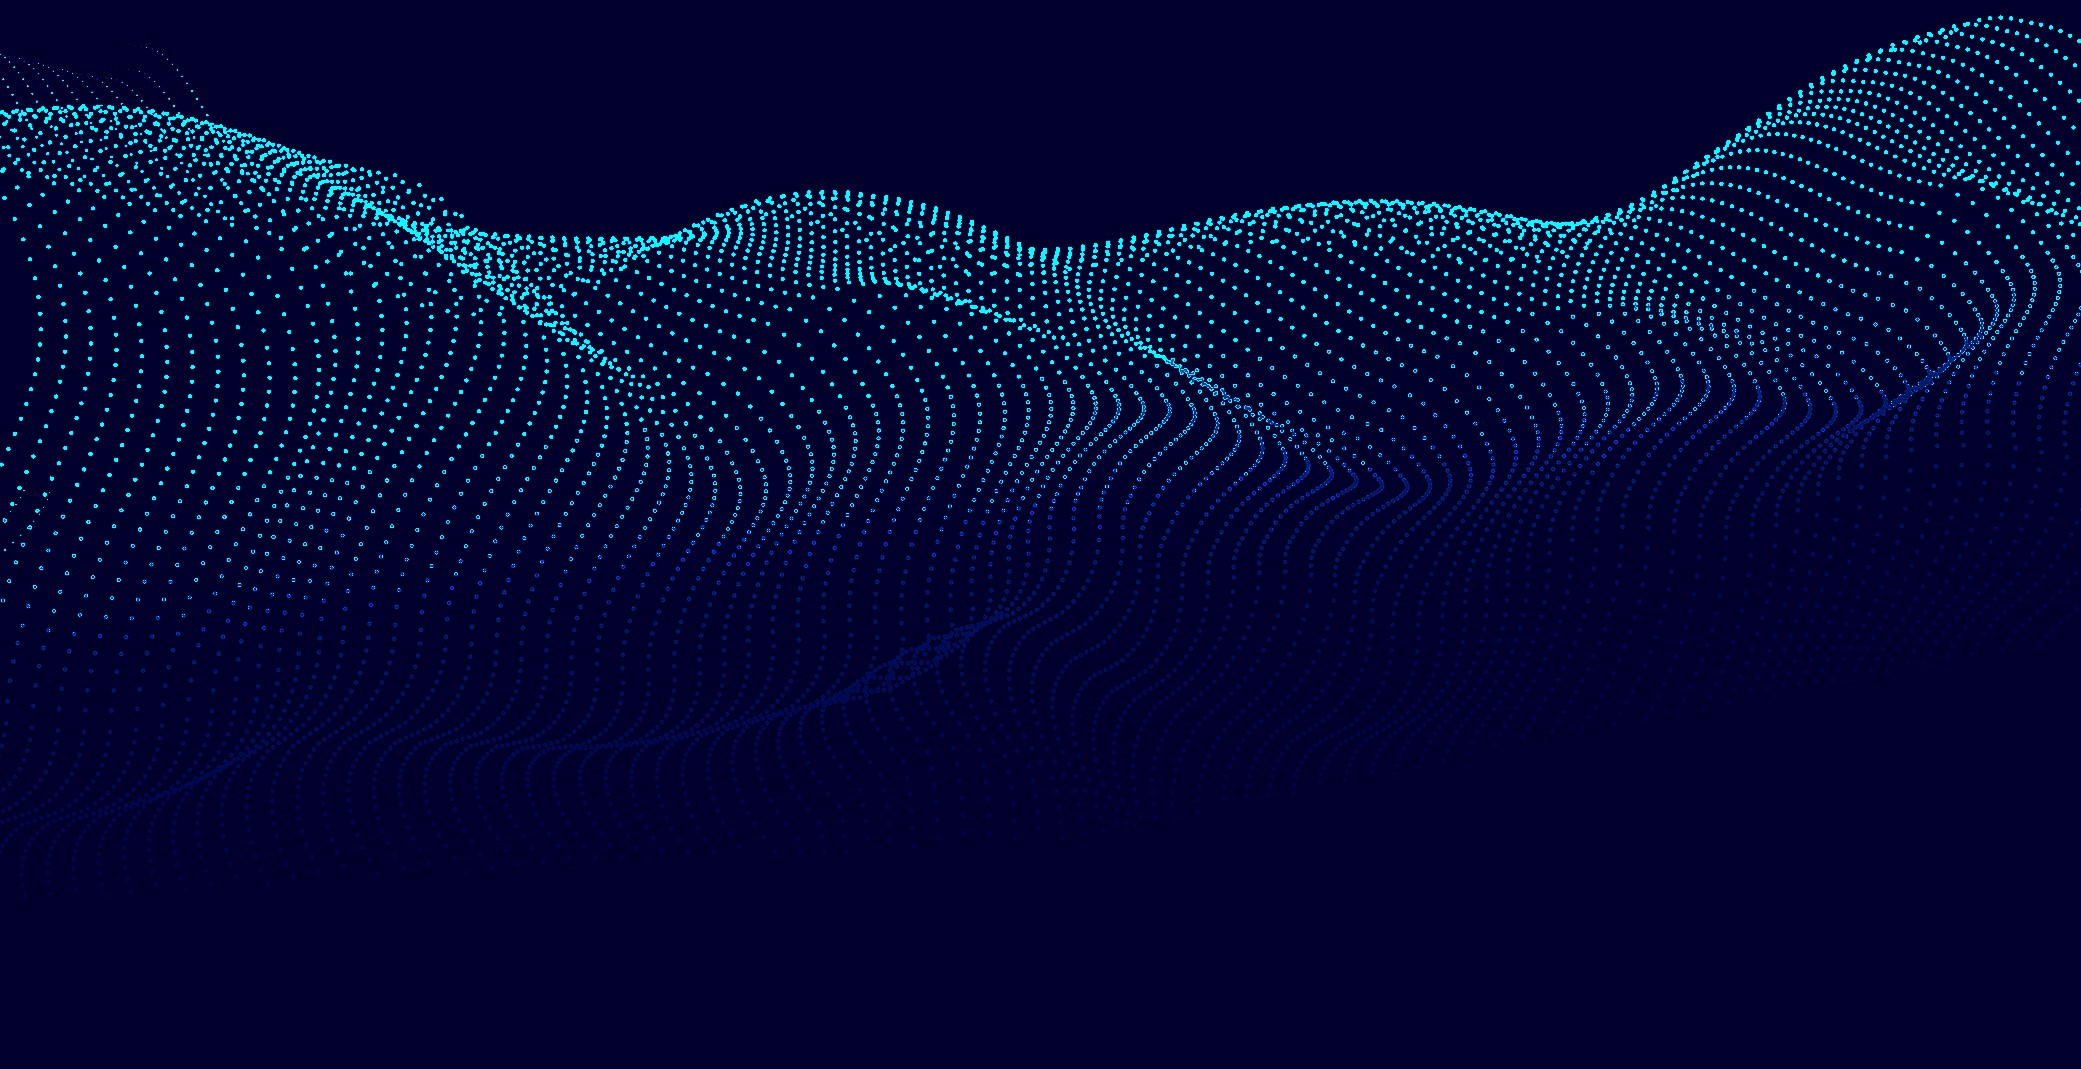
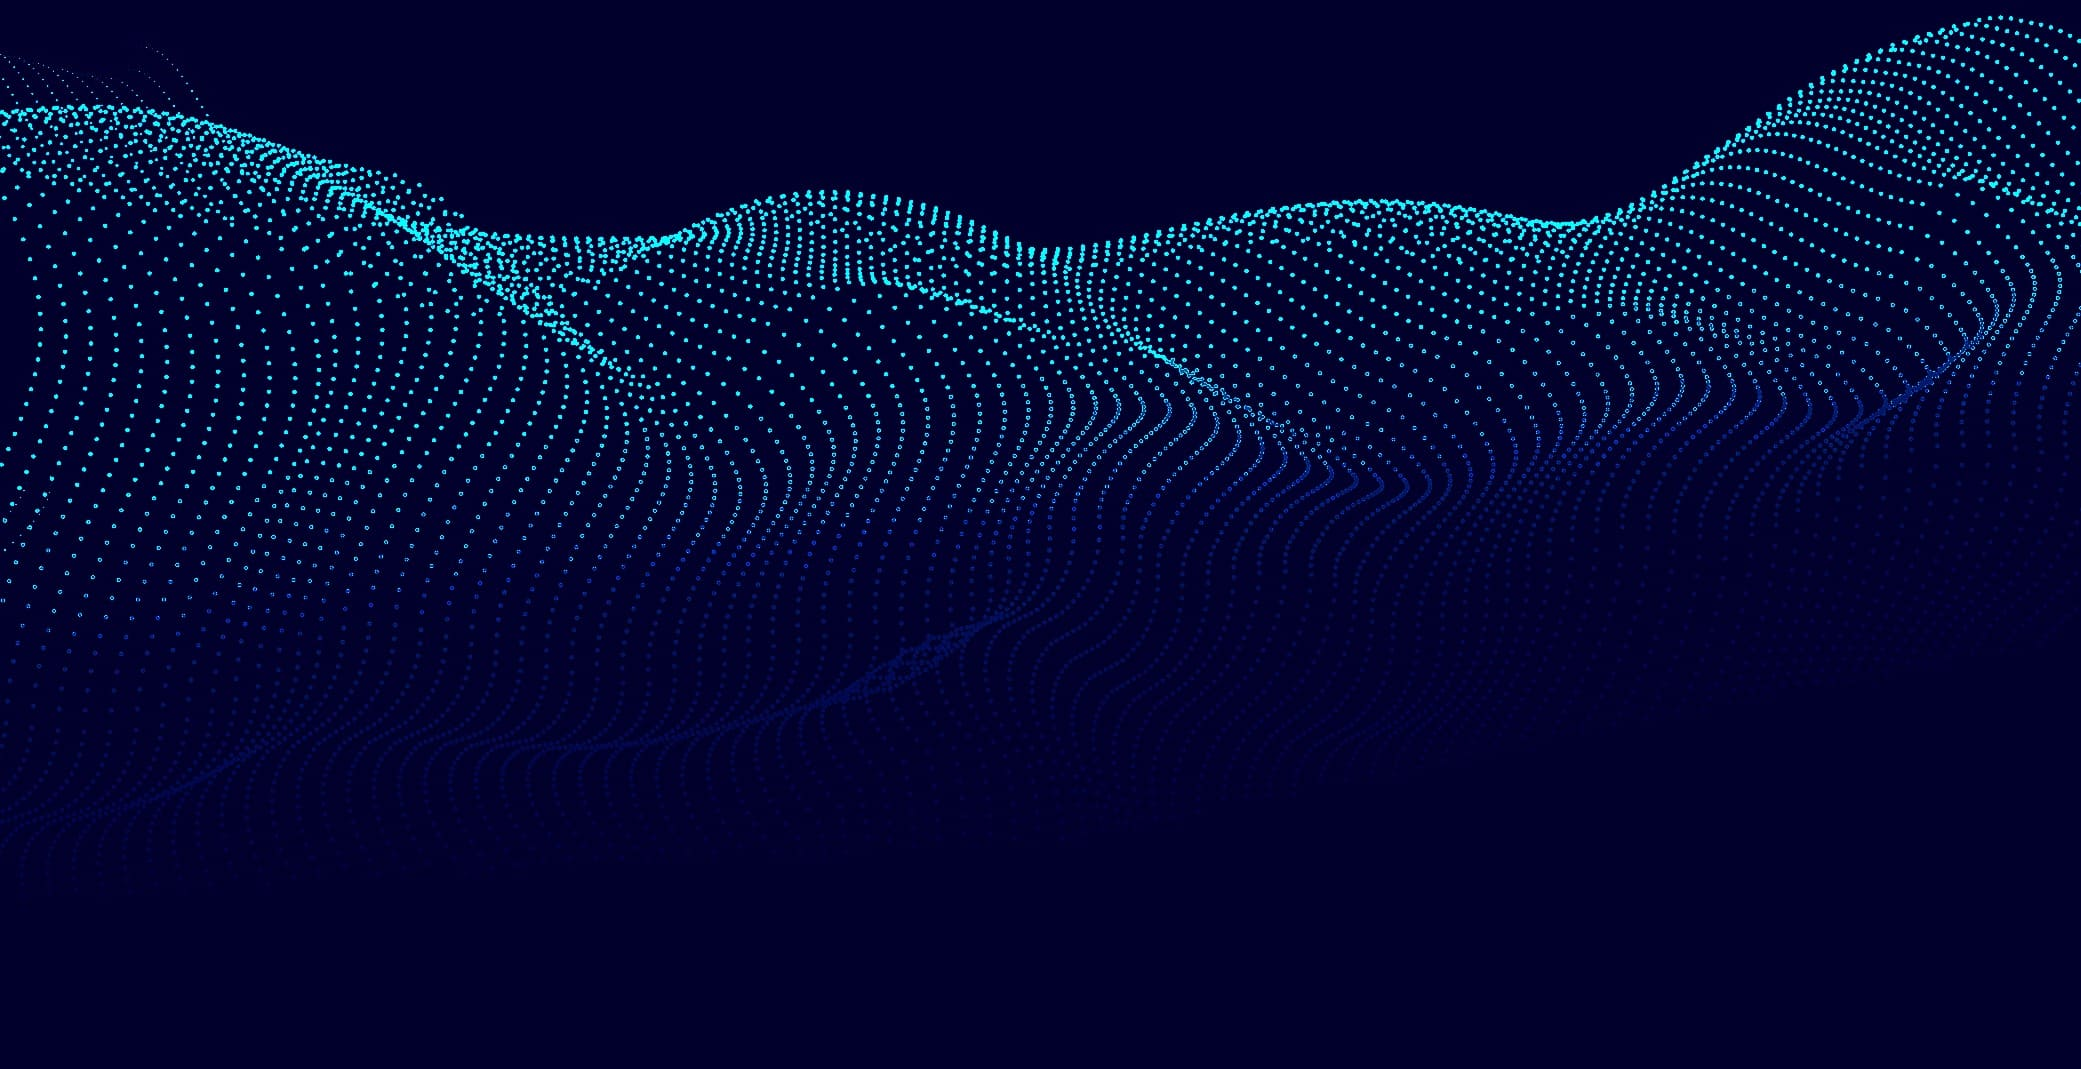
homepage style change

diff --git a/frontend/src/components/landingSection.css b/frontend/src/components/landingSection.css
@@ -35,7 +35,7 @@
 }
 
 #landing:before {
-	position: absolute;
+    position: absolute;
     width: 100%;
     height: 90%;
     content: "";
@@ -62,8 +62,8 @@
     filter: blur(20px);
     /* backdrop-filter: blur(0.1px); */
     border-radius: 10vmin;
-	z-index: -1;
-    padding: 2vmin; 
+    z-index: -1;
+    padding: 2vmin;
 }
 
 #landing > div {
@@ -80,13 +80,77 @@
     filter: drop-shadow(0 0 0.3rem #000000);
 }
 
-
 @media screen and (max-width: 800px) {
     #landing > div {
         width: 100%;
         min-height: 50vh;
         height: fit-content;
     }
+
+}
+
+#landing-right-section {
+    position: relative;
+    /* border: 2px solid red; */
+    height: 50vh;
+}
+
+
+#landing-button-1, #landing-button-2 {
+    display: none;
+    user-select: none;
+    /* border: 2px solid white; */
+}
+
+#landing-spl-button-1, #landing-spl-button-2 {
+    position: absolute;
+    bottom: 0;
+    user-select: none;
+    /* border: 2px solid white; */
+}
+
+#landing-rock-1,
+#landing-rock-2 {
+    pointer-events: none;
+    max-height: 40vh;
+    max-width: 25vw;
+    transition: all 0.3s ease;
+}
+
+#landing-spl-button-1 {
+    left: 0;
+}
+
+#landing-spl-button-2 {
+    right: 0;
+}
+
+#landing-spl-button-1-link {
+    position: absolute;
+    top: 63%;
+    left: 50%;
+    transform: translate(-50%, 0);
+    width: 50%;
+    height: 12%;
+    /* border: 2px solid orange; */
+}
+
+#landing-spl-button-2-link {
+    position: absolute;
+    top: 43%;
+    left: 50%;
+    transform: translate(-40%, 0);
+    width: 60%;
+    height: 20%;
+    /* border: 2px solid orange; */
+}
+
+#landing-spl-button-1-link:hover ~ #landing-rock-1 {
+    filter: drop-shadow(0 0 0.3rem #ffd67c);
+}
+
+#landing-spl-button-2-link:hover ~ #landing-rock-2 {
+    filter: drop-shadow(0 0 0.3rem #ffd67c);
 }
 
 #landing-image {
@@ -179,10 +243,10 @@
     justify-content: space-evenly;
     align-items: center;
     appearance: none;
-    border: 2px solid #1A1A1A;
+    border: 2px solid #1a1a1a;
     border-radius: 15px;
     box-sizing: border-box;
-    color: #FFFFFF;
+    color: #ffffff;
     cursor: pointer;
     font-family: "Josefin Sans", sans-serif;
     /* font-family: Roobert,-apple-system,BlinkMacSystemFont,"Segoe UI",Helvetica,Arial,sans-serif,"Apple Color Emoji","Segoe UI Emoji","Segoe UI Symbol"; */
@@ -196,41 +260,41 @@
     padding: 1vmin 4vmin 2vmin 4vmin;
     text-align: center;
     text-decoration: none;
-    transition: all 300ms cubic-bezier(.23, 1, 0.32, 1);
+    transition: all 300ms cubic-bezier(0.23, 1, 0.32, 1);
     user-select: none;
     -webkit-user-select: none;
     touch-action: manipulation;
     width: 100%;
     will-change: transform;
-  }
+}
 
-  @media screen and (max-width: 800px) {
+@media screen and (max-width: 800px) {
     .button-27 {
         font-size: 3vmin;
         padding: 2vmin 6vmin 3vmin 6vmin;
     }
-  }
+}
 
-  @media screen and (max-width: 480px) {
+@media screen and (max-width: 480px) {
     .button-27 {
         font-size: 5vmin;
         padding: 2vmin 6vmin 3vmin 6vmin;
     }
-  }
-  
-  .button-27:disabled {
+}
+
+.button-27:disabled {
     pointer-events: none;
-  }
-  
-  .button-27:hover {
+}
+
+.button-27:hover {
     box-shadow: rgba(0, 208, 255, 0.25) 0 8px 15px;
     transform: translateY(-2px);
-  }
-  
-  .button-27:active {
+}
+
+.button-27:active {
     box-shadow: none;
     transform: translateY(0);
-  }
+}
 
 #landing-text {
     /* border: 2px solid red; */
@@ -254,6 +318,14 @@
     #landing-image-img2 {
         display: none;
     }
+
+    #landing-spl-button-1, #landing-spl-button-2 {
+        display: none;
+    }
+
+    #landing-button-1, #landing-button-2 {
+        display: block;
+    }
 }
 
 @media screen and (max-width: 800px) {
@@ -261,5 +333,3 @@
         font-size: 4vmin;
     }
 }
-
-

diff --git a/frontend/src/components/landingSection.js b/frontend/src/components/landingSection.js
@@ -8,6 +8,8 @@ import clock from "../pages/clock.js";
 import PrometeoLogo from "../assets/navbar/prometeo_logo_23.png";
 import hero from "../assets/homePage/hero.png";
 import locationIcon from "../assets/icons/location.png";
+import landingRock1 from "../assets/homePage/rock1_.png";
+import landingRock2 from "../assets/homePage/rock2_.png";
 
 export default function LandingSection() {
     useEffect(() => {
@@ -41,9 +43,9 @@ export default function LandingSection() {
                     </div>
                 </div>
                 <div id="landing-right-section">
-                    <div id="landing-image">
+                    {/* <div id="landing-image">
                         <img id="landing-image-img2" src={hero} alt="" />
-                    </div>
+                    </div> */}
                     <div id="landing-links">
                         <Link to="/pre-register" id="landing-button-1">
                             <button id="register-button" className="button-27">
@@ -59,6 +61,20 @@ export default function LandingSection() {
                                 <span>IIT Jodhpur</span>
                             </button>
                         </a>
+                        <div id="landing-spl-button-1">
+                            <a
+                                href="https://goo.gl/maps/7ttdfmtFevqhP4ii6"
+                                id="landing-spl-button-1-link"
+                            ></a>
+                            <img src={landingRock1} id="landing-rock-1" />
+                        </div>
+                        <div id="landing-spl-button-2">
+                            <Link
+                                to="/pre-register"
+                                id="landing-spl-button-2-link"
+                            ></Link>
+                            <img src={landingRock2} id="landing-rock-2" />
+                        </div>
                     </div>
                 </div>
             </div>

diff --git a/frontend/src/components/intro.css b/frontend/src/components/intro.css
@@ -12,7 +12,7 @@
     background: rgb(0,0,43);
     background: 
         linear-gradient(0deg, rgba(0,0,43,1) 1%, rgba(0,0,43,0) 6%, rgba(0,0,43,0) 94%, rgba(0,0,43,1) 99%),
-        url("../assets/backgrounds/intro_bg.png");
+        url("../assets/homePage/intro_bg.png");
     background-size: cover;
     /* background-size: 100% 100%; */
     background-position: center;
